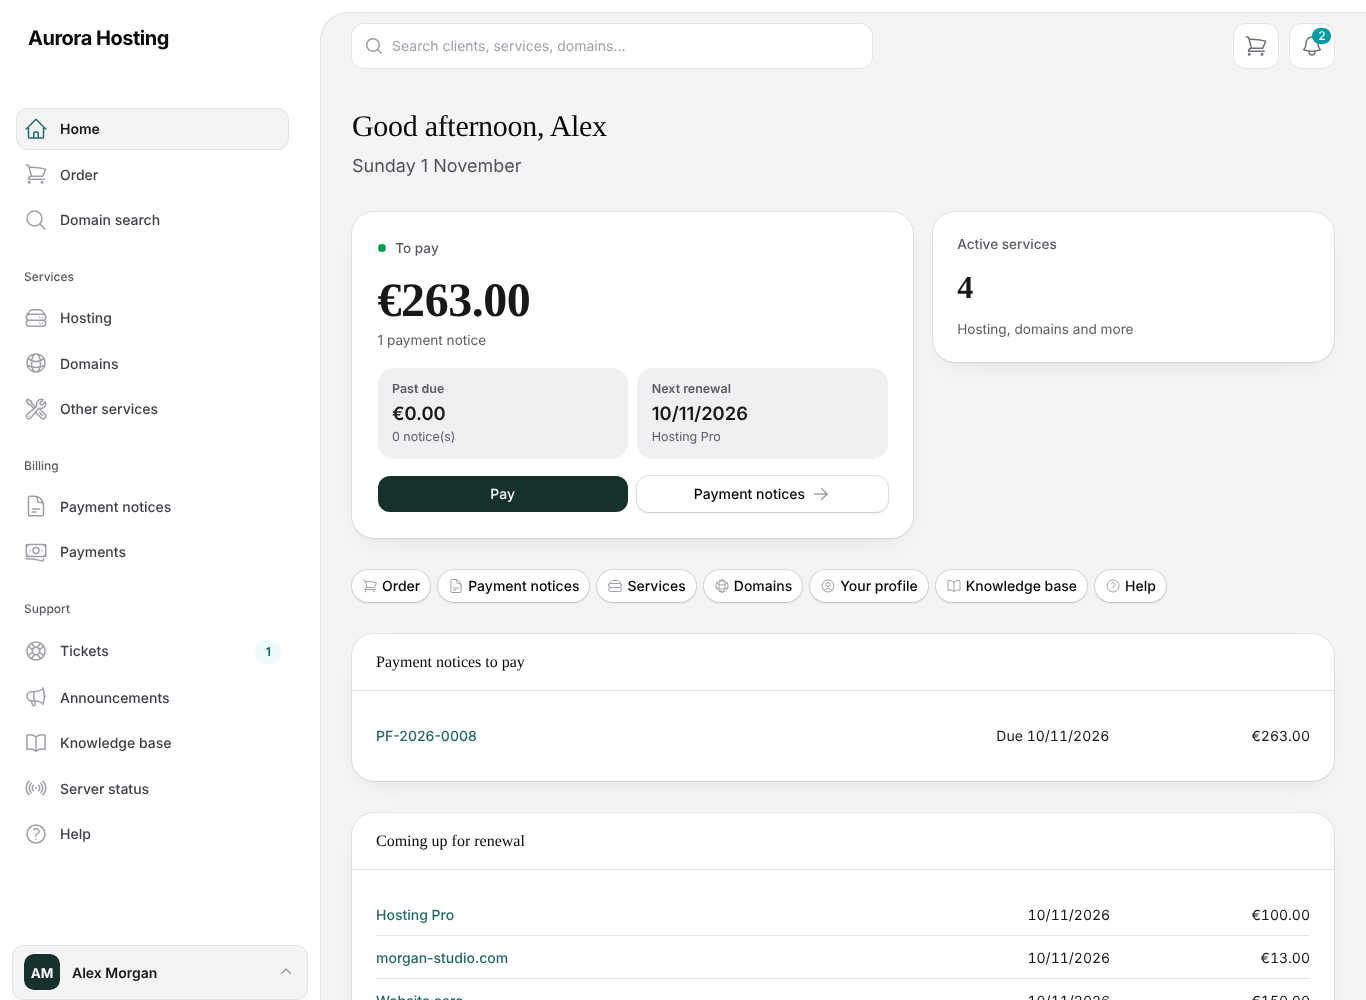
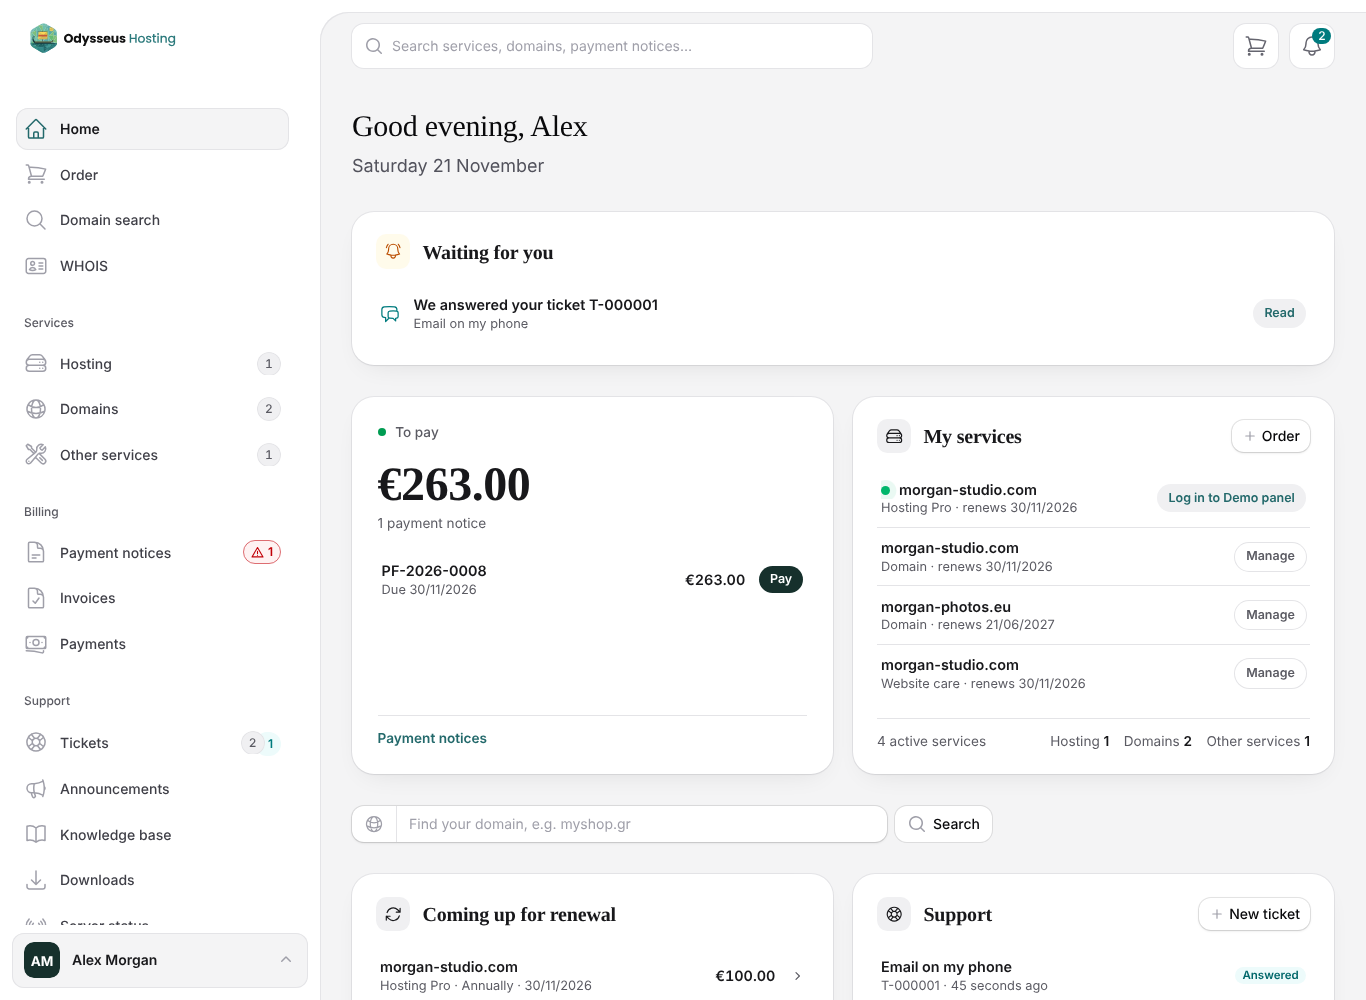
Short release notes, new dashboard and client Home screenshots
A release's notes on GitHub (and in Settings → System → Updates) come from
docs/release-notes/<version>.md when it exists, with a link to the full
changelog, instead of the whole CHANGELOG section. Notes for 0.11.0 and
a short 0.10.0 version to paste into its release.

Claude-Session: https://claude.ai/code/session_01SDRTvPje1qjRhuEVrtdSUN

diff --git a/docs/release-notes/0.11.0.md b/docs/release-notes/0.11.0.md
@@ -1,0 +1,23 @@
+A faster panel, a clearer dashboard and a client area that shows clients what needs them.
+
+**New**
+- **Faster pages.** Clicking around the admin panel and the client area loads only the new page, and starts while the pointer is on the link.
+- **Dashboard.** Today's numbers at the top, Needs attention with buttons to act on each row, recent activity, and a warning when a server is nearly full.
+- **Client area Home.** What waits for the client (notices to pay, suspended services, answers, domains ending), their services with a one-click login to the control panel, and a Start here for new clients.
+- **Client area.** Counts in the menu, a cart that opens from the side, nameservers and auto renew changed on several domains at once, and urgent tickets (a few a month, off by default).
+- **Domain search.** Spotlight TLDs such as .gr and .com shown first, and names suggested from a few words about the business (AI, off by default).
+
+**Security**
+- A Content-Security-Policy on every page (`GAIACP_CSP=report` only reports, `off` turns it off).
+- Email to ticket: replies join a ticket by a secret code, not by its number alone. Fill in **Our mail server's name** under Settings → Support → Email to ticket.
+- Fixes from an outside audit and from the audit before this release.
+
+**Fixed**
+- Add to cart for a domain alone when product groups are set up.
+- The installer's 500 error when sending the setup code on a new install.
+- Logos in emails read in Gmail and Outlook dark mode.
+- Settings no longer lists the pages of disabled plugins.
+
+**Before you update**
+- Plugins with their own inline scripts need the page's nonce (see the Plugin API line in the changelog). The bank plugins from the catalogue keep working.
+- If System health → Speed warns about OPcache, raise `opcache.max_accelerated_files` to 20000 (hosts such as Plesk set 1000).

diff --git a/docs/release-notes/0.10.0.md b/docs/release-notes/0.10.0.md
@@ -1,0 +1,21 @@
+More registrars, server panels and payment methods, and a plugin catalogue with a page for every plugin.
+
+**New**
+- **Registrars:** Namecheap, NameSilo, Openprovider, GoDaddy and ResellerClub. Enom reads your own TLD costs.
+- **Server panels:** Virtualmin. Better login and password changes for Plesk, DirectAdmin and Enhance.
+- **Payments:** Alpha Bank, Eurobank, Piraeus Bank, Nexi XPay, Mastercard Gateway and IRIS. One **Pay online** button when a notice can be paid in several ways. Stripe and PayPal payments are also checked every hour, so one whose client closed the page is still recorded.
+- **Plugin catalogue:** each plugin has its own page with its changelog, and the list filters by tag, type and status. Several plugins moved from GaiaCP into the catalogue; an update keeps them installed with their settings.
+- **Domains:** Request EPP code for registrars that can't give one, and Send EPP code to email one to the client.
+
+**Security**
+- Plesk logins and shortcuts only for the client's own Plesk customer.
+- Catalogue zips only from the catalogue's own address, with a real size limit when unpacked.
+- CSV exports can't run as spreadsheet formulas, and the same domain can't be ordered twice at the same moment.
+
+**Fixed**
+- Pages that broke with "500 Server Error" or "Error loading page" after installing, enabling or uninstalling a plugin on a cached install.
+- Cancel order on a paid order keeps its payments and records a refund, so past income stays as it was.
+
+Not yet tried against real accounts: the new registrars, Virtualmin and the bank payment plugins. Try them in a sandbox first.
+
+Every change in this version: [CHANGELOG.md](https://github.com/tetterip/GaiaCP/blob/v0.10.0/CHANGELOG.md)

diff --git a/docs/releases.md b/docs/releases.md
@@ -16,13 +16,16 @@ comparing plain numbers. To release:
      request with the release's notable features, merged when the release is published. The version number itself
      comes from GitHub, so it needs no edit.
 2. Set `VERSION` to the new number and move the `## [Unreleased]` notes in `CHANGELOG.md` under
-   `## [<version>] - <date>`; merge that to `main`.
+   `## [<version>] - <date>`. Write the release's short notes in `docs/release-notes/<version>.md`: one line on what
+   the version is about, then **New**, **Security**, **Fixed** and **Before you update**, a few plain lines each,
+   for people deciding whether to update (the changelog keeps every detail). Merge that to `main`.
 3. On GitHub: Releases → Draft a new release → a new tag `v<version>` (or `<version>`) on `main` → Publish. Pushing the
    tag from Git (`git tag v0.2.0 && git push origin v0.2.0`) works too.
 
 The Release workflow (`.github/workflows/release.yml`) then runs the tests, checks the tag matches `VERSION`, builds
 `gaiacp-<version>.zip` with `bin/build-release.sh` and attaches it with a SHA-256 checksum to the tag's release (created
-with the changelog section as notes when the tag was pushed without one). Actions → Release → Run workflow with a tag
+with those short notes and a link to the changelog, or the changelog section when there are none, when the tag was
+pushed without notes). Actions → Release → Run workflow with a tag
 rebuilds an existing tag's zip. The zip holds the code with its production dependencies (`vendor/`) and Filament's assets, without
 tests or dev files, so a server needs neither Composer nor Git. `bin/build-release.sh` builds the same zip locally
 (into `build/`) from the committed code.

diff --git a/README.md b/README.md
@@ -24,7 +24,7 @@
 > and read each release's notes before updating.
 
 <p align="center">
-  <img src="docs/screenshots/admin-dashboard.png" alt="The admin dashboard: open balance, orders and income, servers with their uptime, and what is due">
+  <img src="docs/screenshots/admin-dashboard.png" alt="The admin dashboard: today's numbers, what needs your attention, the open balance, income and renewals">
 </p>
 
 ## What is GaiaCP?
@@ -104,7 +104,7 @@ The full list, and what is planned, is in [docs/features.md](docs/features.md).
   </tr>
   <tr>
     <td align="center">A client's page: balance, payment record and every service in tabs</td>
-    <td align="center">The client area: what to pay and what renews next</td>
+    <td align="center">The client area: what waits for the client, what to pay and their services</td>
   </tr>
   <tr>
     <td width="50%"><img src="docs/screenshots/public-home.png" alt="The public home page"></td>
